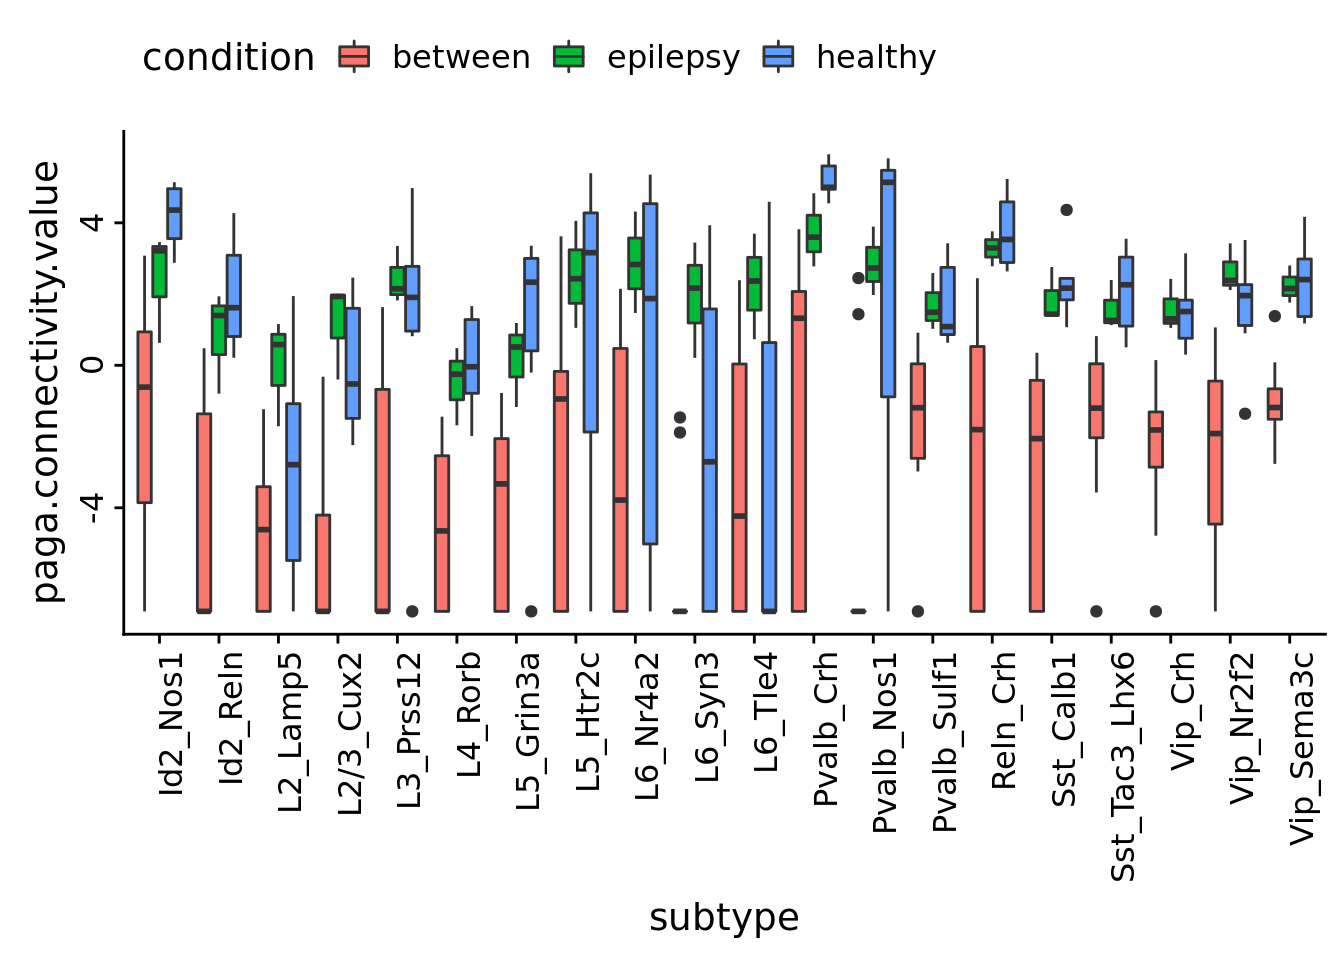
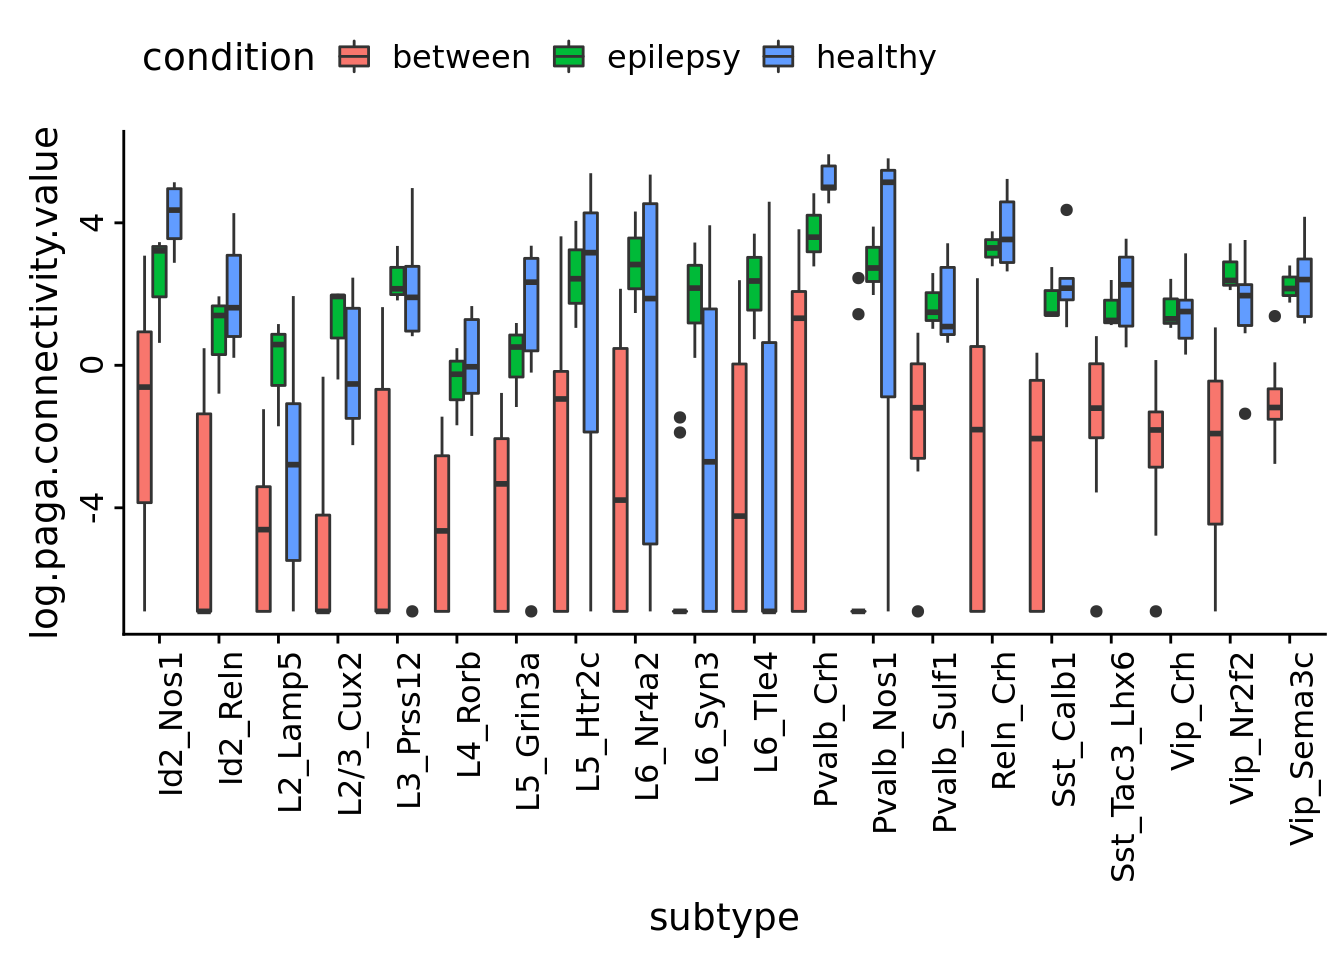
Build site.

Changed region(s): [[0.0, 0.2188, 0.0625, 0.6562], [0.0, 0.125, 0.0625, 0.1875]]

diff --git a/docs/paga_analyses.html b/docs/paga_analyses.html
@@ -446,7 +446,7 @@ div.section {
 <div class="tab-content">
 <div id="summary" class="tab-pane fade in active">
 <p>
-<strong>Last updated:</strong> 2019-06-28
+<strong>Last updated:</strong> 2019-07-01
 </p>
 <p>
 <strong>Checks:</strong> <span class="glyphicon glyphicon-ok text-success" aria-hidden="true"></span> 6 <span class="glyphicon glyphicon-exclamation-sign text-danger" aria-hidden="true"></span> 0
@@ -525,10 +525,10 @@ This reproducible <a href="http://rmarkdown.rstudio.com">R Markdown</a> analysis
 <div class="panel panel-default">
 <div class="panel-heading">
 <p class="panel-title">
-<a data-toggle="collapse" data-parent="#workflowr-checks" href="#strongRepositoryversionstrongahrefhttpsgithubcomgithubz0rSecretUtilstree23627931a20ecd7f56cb2e056d45a3f156a6a609targetblank2362793a"> <span class="glyphicon glyphicon-ok text-success" aria-hidden="true"></span> <strong>Repository version:</strong> <a href="https://github.com/githubz0r/SecretUtils/tree/23627931a20ecd7f56cb2e056d45a3f156a6a609" target="_blank">2362793</a> </a>
+<a data-toggle="collapse" data-parent="#workflowr-checks" href="#strongRepositoryversionstrongahrefhttpsgithubcomgithubz0rSecretUtilstreee62c6c49c2a990f5da6cc65df9a1a4e415fa21a7targetblanke62c6c4a"> <span class="glyphicon glyphicon-ok text-success" aria-hidden="true"></span> <strong>Repository version:</strong> <a href="https://github.com/githubz0r/SecretUtils/tree/e62c6c49c2a990f5da6cc65df9a1a4e415fa21a7" target="_blank">e62c6c4</a> </a>
 </p>
 </div>
[2 lines of base64/hex data omitted]
 <div class="panel-body">
 <p>
 Great! You are using Git for version control. Tracking code development and connecting the code version to the results is critical for reproducibility. The version displayed above was the version of the Git repository at the time these results were generated. <br><br> Note that you need to be careful to ensure that all relevant files for the analysis have been committed to Git prior to generating the results (you can use <code>wflow_publish</code> or <code>wflow_git_commit</code>). workflowr only checks the R Markdown file, but you know if there are other scripts or data files that it depends on. Below is the status of the Git repository when the results were generated:
@@ -608,6 +608,40 @@ Message
 </tr>
 </thead>
 <tbody>
+<tr>
+<td>
+Rmd
+</td>
+<td>
+<a href="https://github.com/githubz0r/SecretUtils/blob/e62c6c49c2a990f5da6cc65df9a1a4e415fa21a7/analysis/paga_analyses.Rmd" target="_blank">e62c6c4</a>
+</td>
+<td>
+githubz0r
+</td>
+<td>
+2019-07-01
+</td>
+<td>
+updates to labels when using log scale
+</td>
+</tr>
+<tr>
+<td>
+html
+</td>
+<td>
+<a href="https://rawcdn.githack.com/githubz0r/SecretUtils/5d01b86769da8184219d288fa5c9b1ce9d76d9ed/docs/paga_analyses.html" target="_blank">5d01b86</a>
+</td>
+<td>
+githubz0r
+</td>
+<td>
+2019-06-28
+</td>
+<td>
+Build site.
+</td>
+</tr>
 <tr>
 <td>
 Rmd
@@ -808,7 +842,7 @@ $healthy
 <p>Read unaligned graph adj obtained with pagoda2 on the whole raw matrix</p>
 <pre class="r"><code>eps_unaligned_adj &lt;- readMM(&#39;/home/larsc/data/eps_unaligned_adj.mtx&#39;)</code></pre>
 <pre class="r"><code>paga_subtype_condition &lt;- GeneratePagaItems(eps_unaligned_adj, epilepsy_annot$subtype, epilepsy_annot$condition,
-                                                     by.subtypes.condition = T)
+                                                     by.subtypes.condition = T, log.scale=F)
 paga_subtype_condition$scatter.plot # has matrix, data frame and plot</code></pre>
 <p><img src="figure/paga_analyses.Rmd/unnamed-chunk-6-1.png" width="672" style="display: block; margin: auto;" /></p>
 <p>
@@ -870,10 +904,11 @@ githubz0r
 </table>
 </div>
 </div>
-<p>Distance matrix tsne plot, using only a single n_sample x n_sample matrix.</p>
-<pre class="r"><code>samples_connectivities &lt;- GeneratePagaItems(eps_unaligned_adj, sample.vector=epilepsy_annot$sample, by.sample=T)
+<p>Distance matrix tsne plot, using only a single n_sample x n_sample matrix, using log scale</p>
+<pre class="r"><code>samples_connectivities &lt;- GeneratePagaItems(eps_unaligned_adj, sample.vector=epilepsy_annot$sample, by.sample=T, log.scale=T, 
+                                            pseudo.connectivity = 1e-3)
 # put it in log scale for better visualization, so we add a small pseudo connectivity
-SecretUtils::PlotDistanceMatRed(log(samples_connectivities$connectivities+1e-6), epilepsy_annot$sample, epilepsy_annot$subtype,
+SecretUtils::PlotDistanceMatRed(samples_connectivities$connectivities, epilepsy_annot$sample, epilepsy_annot$subtype,
                                 epilepsy_annot$sample, epilepsy_annot$cellid, epilepsy_annot$condition, perplexity=2, 
                                 max_iter=1e5, by.subtype=F)</code></pre>
 <p><img src="figure/paga_analyses.Rmd/unnamed-chunk-7-1.png" width="672" style="display: block; margin: auto;" /></p>
@@ -937,7 +972,8 @@ githubz0r
 </div>
 </div>
 <p>Within conditions distances</p>
-<pre class="r"><code>SecretUtils::ConditionDistanceDensity(samples_connectivities$connectivities, epilepsy_annot$sample, epilepsy_annot$subtype, 
+<pre class="r"><code>samples_connectivities &lt;- GeneratePagaItems(eps_unaligned_adj, sample.vector=epilepsy_annot$sample, by.sample=T)
+SecretUtils::ConditionDistanceDensity(samples_connectivities$connectivities, epilepsy_annot$sample, epilepsy_annot$subtype, 
                                       epilepsy_annot$sample, epilepsy_annot$cellid, epilepsy_annot$condition, notch=F, by.subtype=F)</code></pre>
 <p><img src="figure/paga_analyses.Rmd/unnamed-chunk-8-1.png" width="672" style="display: block; margin: auto;" /></p>
 <p>
@@ -1029,6 +1065,17 @@ Date
 <tbody>
 <tr>
 <td>
+<a href="https://github.com/githubz0r/SecretUtils/blob/5d01b86769da8184219d288fa5c9b1ce9d76d9ed/docs/figure/paga_analyses.Rmd/unnamed-chunk-9-1.png" target="_blank">5d01b86</a>
+</td>
+<td>
+githubz0r
+</td>
+<td>
+2019-06-28
+</td>
+</tr>
+<tr>
+<td>
 <a href="https://github.com/githubz0r/SecretUtils/blob/d083dbda87ed6366c97511dd08aac850e855443f/docs/figure/paga_analyses.Rmd/unnamed-chunk-9-1.png" target="_blank">d083dbd</a>
 </td>
 <td>
@@ -1091,6 +1138,17 @@ Date
 <tbody>
 <tr>
 <td>
+<a href="https://github.com/githubz0r/SecretUtils/blob/5d01b86769da8184219d288fa5c9b1ce9d76d9ed/docs/figure/paga_analyses.Rmd/unnamed-chunk-10-1.png" target="_blank">5d01b86</a>
+</td>
+<td>
+githubz0r
+</td>
+<td>
+2019-06-28
+</td>
+</tr>
+<tr>
+<td>
 <a href="https://github.com/githubz0r/SecretUtils/blob/d083dbda87ed6366c97511dd08aac850e855443f/docs/figure/paga_analyses.Rmd/unnamed-chunk-10-1.png" target="_blank">d083dbd</a>
 </td>
 <td>
@@ -1146,6 +1204,17 @@ Date
 <tbody>
 <tr>
 <td>
+<a href="https://github.com/githubz0r/SecretUtils/blob/5d01b86769da8184219d288fa5c9b1ce9d76d9ed/docs/figure/paga_analyses.Rmd/unnamed-chunk-11-1.png" target="_blank">5d01b86</a>
+</td>
+<td>
+githubz0r
+</td>
+<td>
+2019-06-28
+</td>
+</tr>
+<tr>
+<td>
 <a href="https://github.com/githubz0r/SecretUtils/blob/d083dbda87ed6366c97511dd08aac850e855443f/docs/figure/paga_analyses.Rmd/unnamed-chunk-11-1.png" target="_blank">d083dbd</a>
 </td>
 <td>
@@ -1159,8 +1228,45 @@ githubz0r
 </table>
 </div>
 </div>
-<pre class="r"><code>GeneratePagaPlot(paga_subtype_samples_unlin$paga.df, subset=&#39;between&#39;)</code></pre>
+<pre class="r"><code>GeneratePagaPlot(paga_subtype_samples_unlin$paga.df, subset=&#39;between&#39;, log.scale=T)</code></pre>
 <p><img src="figure/paga_analyses.Rmd/unnamed-chunk-11-2.png" width="672" style="display: block; margin: auto;" /></p>
+<p>
+<button type="button" class="btn btn-default btn-xs btn-workflowr btn-workflowr-fig" data-toggle="collapse" data-target="#fig-unnamed-chunk-11-2">
+Past versions of unnamed-chunk-11-2.png
+</button>
+</p>
+<div id="fig-unnamed-chunk-11-2" class="collapse">
+<div class="table-responsive">
+<table class="table table-condensed table-hover">
+<thead>
+<tr>
+<th>
+Version
+</th>
+<th>
+Author
+</th>
+<th>
+Date
+</th>
+</tr>
+</thead>
+<tbody>
+<tr>
+<td>
+<a href="https://github.com/githubz0r/SecretUtils/blob/5d01b86769da8184219d288fa5c9b1ce9d76d9ed/docs/figure/paga_analyses.Rmd/unnamed-chunk-11-2.png" target="_blank">5d01b86</a>
+</td>
+<td>
+githubz0r
+</td>
+<td>
+2019-06-28
+</td>
+</tr>
+</tbody>
+</table>
+</div>
+</div>
 </div>
 <div id="pancreas-indrop-4-samples" class="section level2">
 <h2>Pancreas indrop, 4 samples</h2>
@@ -1230,6 +1336,17 @@ Date
 <tbody>
 <tr>
 <td>
+<a href="https://github.com/githubz0r/SecretUtils/blob/5d01b86769da8184219d288fa5c9b1ce9d76d9ed/docs/figure/paga_analyses.Rmd/unnamed-chunk-15-1.png" target="_blank">5d01b86</a>
+</td>
+<td>
+githubz0r
+</td>
+<td>
+2019-06-28
+</td>
+</tr>
+<tr>
+<td>
 <a href="https://github.com/githubz0r/SecretUtils/blob/34b8a1819c86e987581a541411871a99d08bd2df/docs/figure/paga_analyses.Rmd/unnamed-chunk-15-1.png" target="_blank">34b8a18</a>
 </td>
 <td>
@@ -1272,6 +1389,17 @@ Date
 </tr>
 </thead>
 <tbody>
+<tr>
+<td>
+<a href="https://github.com/githubz0r/SecretUtils/blob/5d01b86769da8184219d288fa5c9b1ce9d76d9ed/docs/figure/paga_analyses.Rmd/unnamed-chunk-16-1.png" target="_blank">5d01b86</a>
+</td>
+<td>
+githubz0r
+</td>
+<td>
+2019-06-28
+</td>
+</tr>
 <tr>
 <td>
 <a href="https://github.com/githubz0r/SecretUtils/blob/d083dbda87ed6366c97511dd08aac850e855443f/docs/figure/paga_analyses.Rmd/unnamed-chunk-16-1.png" target="_blank">d083dbd</a>
@@ -1327,6 +1455,17 @@ Date
 <tbody>
 <tr>
 <td>
+<a href="https://github.com/githubz0r/SecretUtils/blob/5d01b86769da8184219d288fa5c9b1ce9d76d9ed/docs/figure/paga_analyses.Rmd/unnamed-chunk-17-1.png" target="_blank">5d01b86</a>
+</td>
+<td>
+githubz0r
+</td>
+<td>
+2019-06-28
+</td>
+</tr>
+<tr>
+<td>
 <a href="https://github.com/githubz0r/SecretUtils/blob/d083dbda87ed6366c97511dd08aac850e855443f/docs/figure/paga_analyses.Rmd/unnamed-chunk-17-1.png" target="_blank">d083dbd</a>
 </td>
 <td>
@@ -1380,6 +1519,17 @@ Date
 <tbody>
 <tr>
 <td>
+<a href="https://github.com/githubz0r/SecretUtils/blob/5d01b86769da8184219d288fa5c9b1ce9d76d9ed/docs/figure/paga_analyses.Rmd/unnamed-chunk-18-1.png" target="_blank">5d01b86</a>
+</td>
+<td>
+githubz0r
+</td>
+<td>
+2019-06-28
+</td>
+</tr>
+<tr>
+<td>
 <a href="https://github.com/githubz0r/SecretUtils/blob/d083dbda87ed6366c97511dd08aac850e855443f/docs/figure/paga_analyses.Rmd/unnamed-chunk-18-1.png" target="_blank">d083dbd</a>
 </td>
 <td>
@@ -1429,6 +1579,17 @@ Date
 </tr>
 </thead>
 <tbody>
+<tr>
+<td>
+<a href="https://github.com/githubz0r/SecretUtils/blob/5d01b86769da8184219d288fa5c9b1ce9d76d9ed/docs/figure/paga_analyses.Rmd/unnamed-chunk-19-1.png" target="_blank">5d01b86</a>
+</td>
+<td>
+githubz0r
+</td>
+<td>
+2019-06-28
+</td>
+</tr>
 <tr>
 <td>
 <a href="https://github.com/githubz0r/SecretUtils/blob/d083dbda87ed6366c97511dd08aac850e855443f/docs/figure/paga_analyses.Rmd/unnamed-chunk-19-1.png" target="_blank">d083dbd</a>
